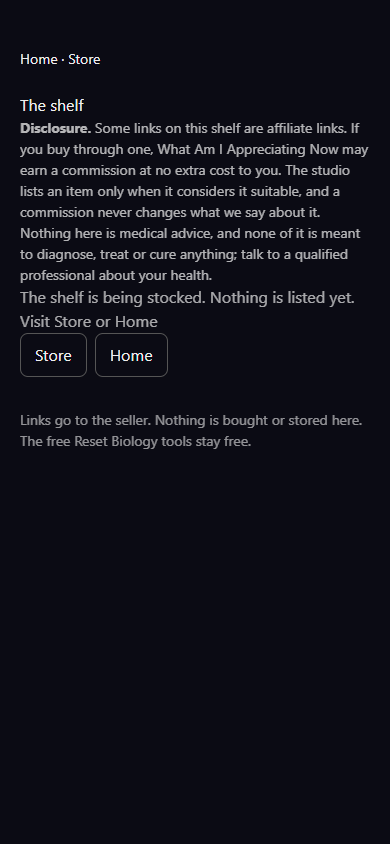
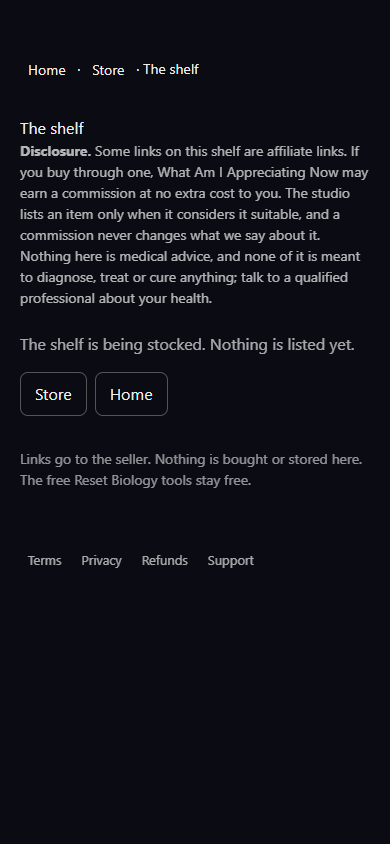
WAIA: close W9 shelf and Listen dead ends
Claude-Session: https://claude.ai/code/session_01QwUeFZBaQq6HvUEKRg1tbb

diff --git a/src/app/store/shelf/page.tsx b/src/app/store/shelf/page.tsx
@@ -1,4 +1,6 @@
 import { StoreItemCard, gridStyle } from '@/components/store/StoreItemCard';
+import { WaiaFooter } from '@/components/WaiaFooter';
+import { NAV_LINK_STYLE } from '@/app/legal/LegalLinks';
 import { DISCLOSURE, renderableItems, shelfHasCommission } from '@/lib/store/items';
 import { SHELF_ITEMS } from '@/lib/store/shelf-items';
 
@@ -25,16 +27,16 @@ export default function ShelfPage() {
   return (
     <main style={{ maxWidth: 960, margin: '0 auto', padding: '48px 20px', color: '#eee', background: '#0b0b14', minHeight: '100vh', fontFamily: 'system-ui, sans-serif' }}>
       <nav aria-label="Site navigation" style={{ fontSize: 14, marginBottom: 24 }}>
-        <a href="/" style={{ color: 'inherit' }}>Home</a> · <a href="/store" style={{ color: 'inherit' }}>Store</a>
+        <a href="/" style={NAV_LINK_STYLE}>Home</a> · <a href="/store" style={NAV_LINK_STYLE}>Store</a> · <span aria-current="page">The shelf</span>
       </nav>
       <h1>The shelf</h1>
       {(items.length === 0 || shelfHasCommission(items)) && (
-        <p style={{ fontSize: 14, opacity: 0.75 }} id="disclosure"><strong>Disclosure.</strong> {DISCLOSURE}</p>
+        <p style={{ fontSize: 14, opacity: 0.75, marginBottom: 24 }} id="disclosure"><strong>Disclosure.</strong> {DISCLOSURE}</p>
       )}
       {items.length === 0 ? (
         <>
-          <p style={{ opacity: 0.7 }}>The shelf is being stocked. Nothing is listed yet. Visit Store or Home</p>
-          <div style={{ display: 'flex', gap: 8 }}>
+          <p style={{ opacity: 0.7, margin: 0 }}>The shelf is being stocked. Nothing is listed yet.</p>
+          <div style={{ display: 'flex', gap: 8, marginTop: 16 }}>
             <a href="/store" style={shelfButtonStyle}>Store</a>
             <a href="/" style={shelfButtonStyle}>Home</a>
           </div>
@@ -43,6 +45,7 @@ export default function ShelfPage() {
         <div style={gridStyle}>{items.map((i) => <StoreItemCard key={i.id} item={i} />)}</div>
       )}
       <p style={{ fontSize: 14, opacity: 0.6, marginTop: 32 }}>Links go to the seller. Nothing is bought or stored here. The free Reset Biology tools stay free.</p>
+      <WaiaFooter />
     </main>
   );
 }

diff --git a/src/app/listen/page.tsx b/src/app/listen/page.tsx
@@ -1,4 +1,5 @@
 import { WaiaFooter } from '@/components/WaiaFooter';
+import { NAV_LINK_STYLE } from '@/app/legal/LegalLinks';
 
 export const metadata = {
   title: 'Listen · What Am I Appreciating Now',
@@ -20,7 +21,7 @@ export default function ListenPage() {
         Not medical advice or therapy. Do not listen while driving, operating machinery, or anywhere you need to stay alert. Voice: Jonathan Hyatt&rsquo;s own, rendered from his recordings with a voice clone.
         Words: Reset Biology, &ldquo;Reset Your Relationship with Food&rdquo;.
       </p>
-      <p style={{ marginTop: 24 }}><a href="/" style={{ color: '#cf9d4f' }}>Back to home</a> · <a href="/programs/advanced-hypnosis-sessions" style={{ color: '#cf9d4f' }}>The video version</a></p>
+      <p style={{ marginTop: 24 }}><a href="/" style={{ ...NAV_LINK_STYLE, boxSizing: 'border-box', color: '#cf9d4f' }}>Back to home</a> · <a href="/programs/advanced-hypnosis-sessions" style={{ ...NAV_LINK_STYLE, boxSizing: 'border-box', color: '#cf9d4f' }}>The video version</a></p>
       <WaiaFooter />
     </main>
   );
